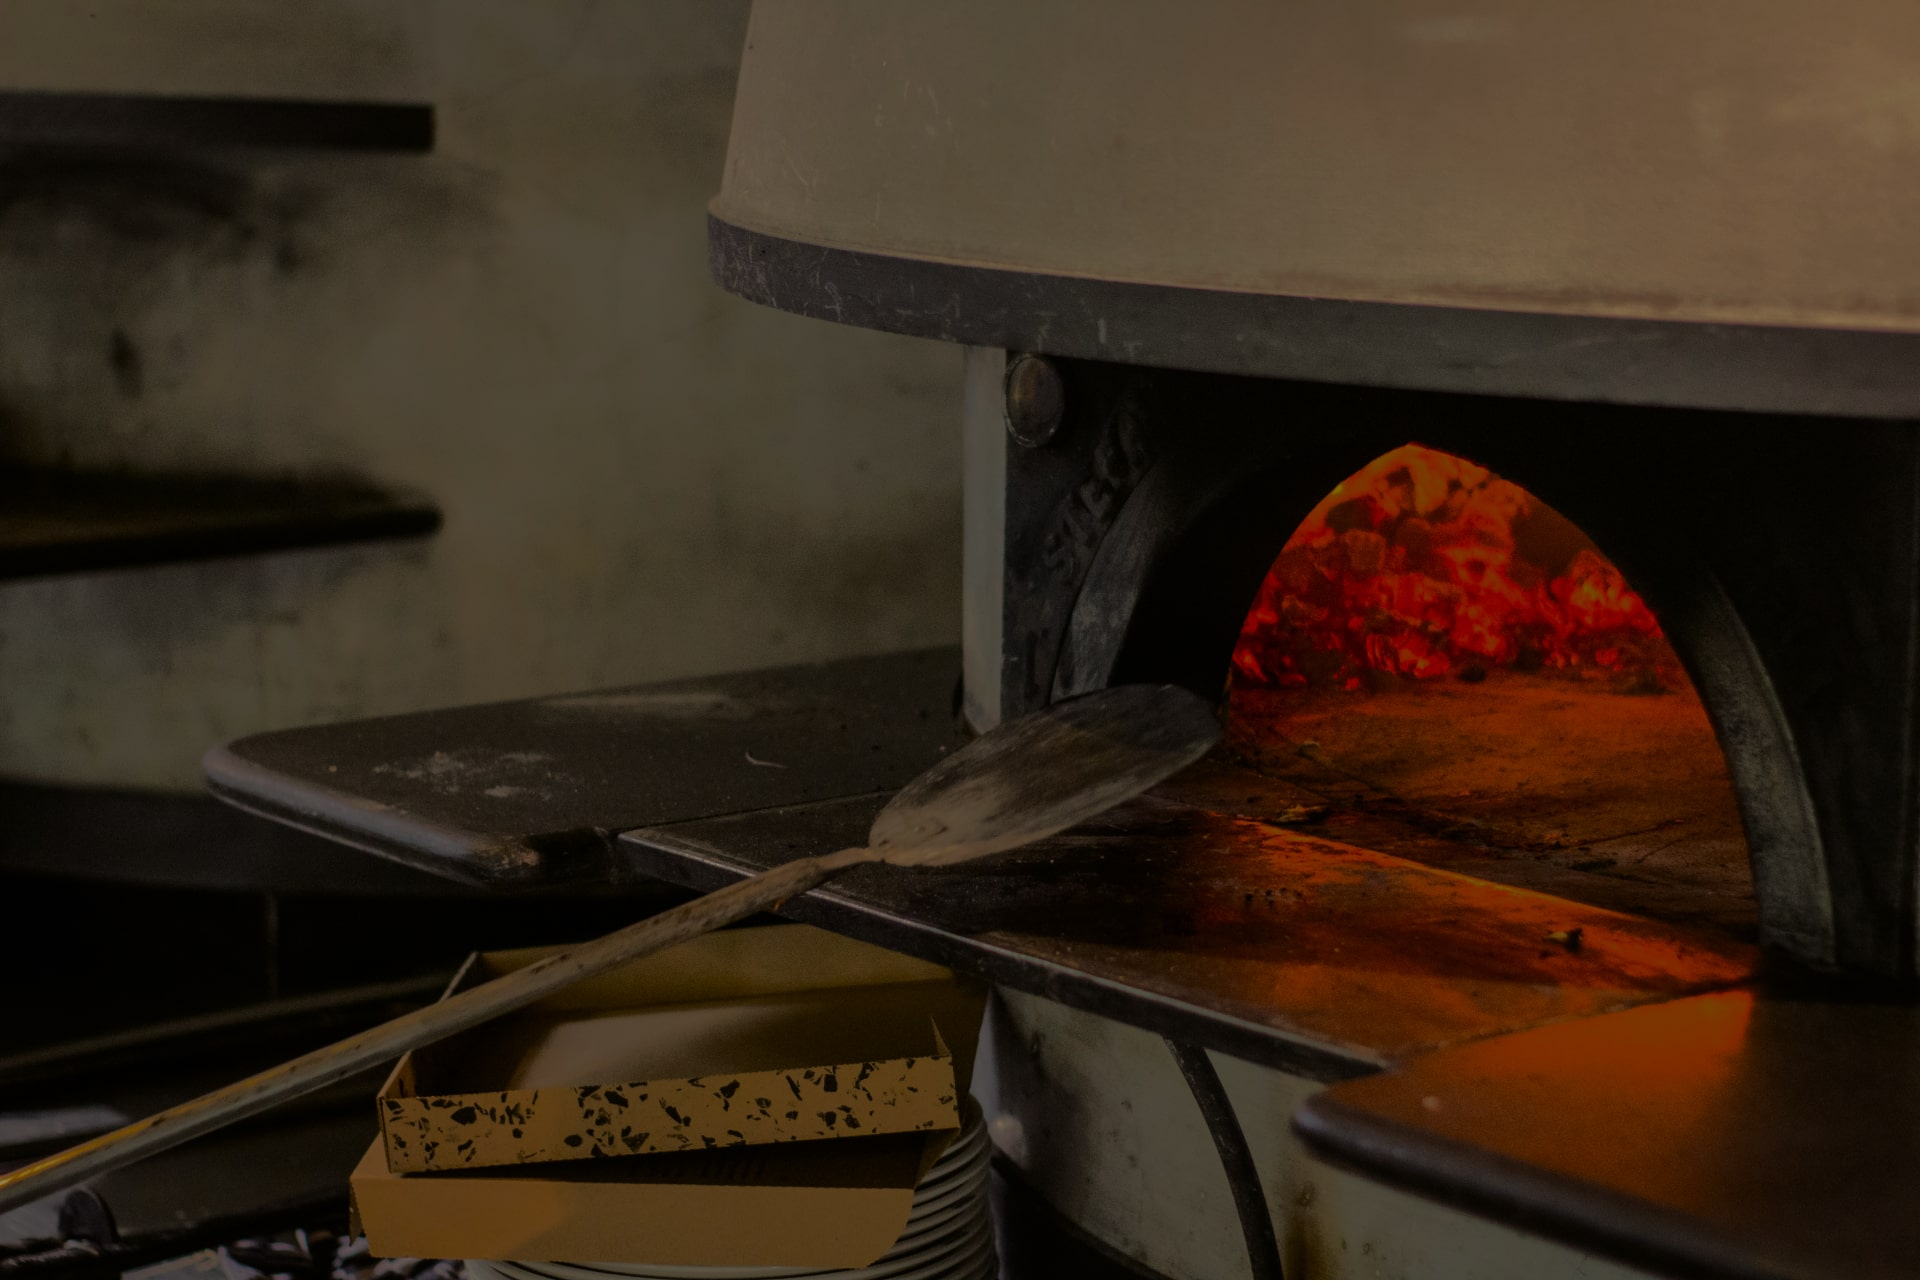
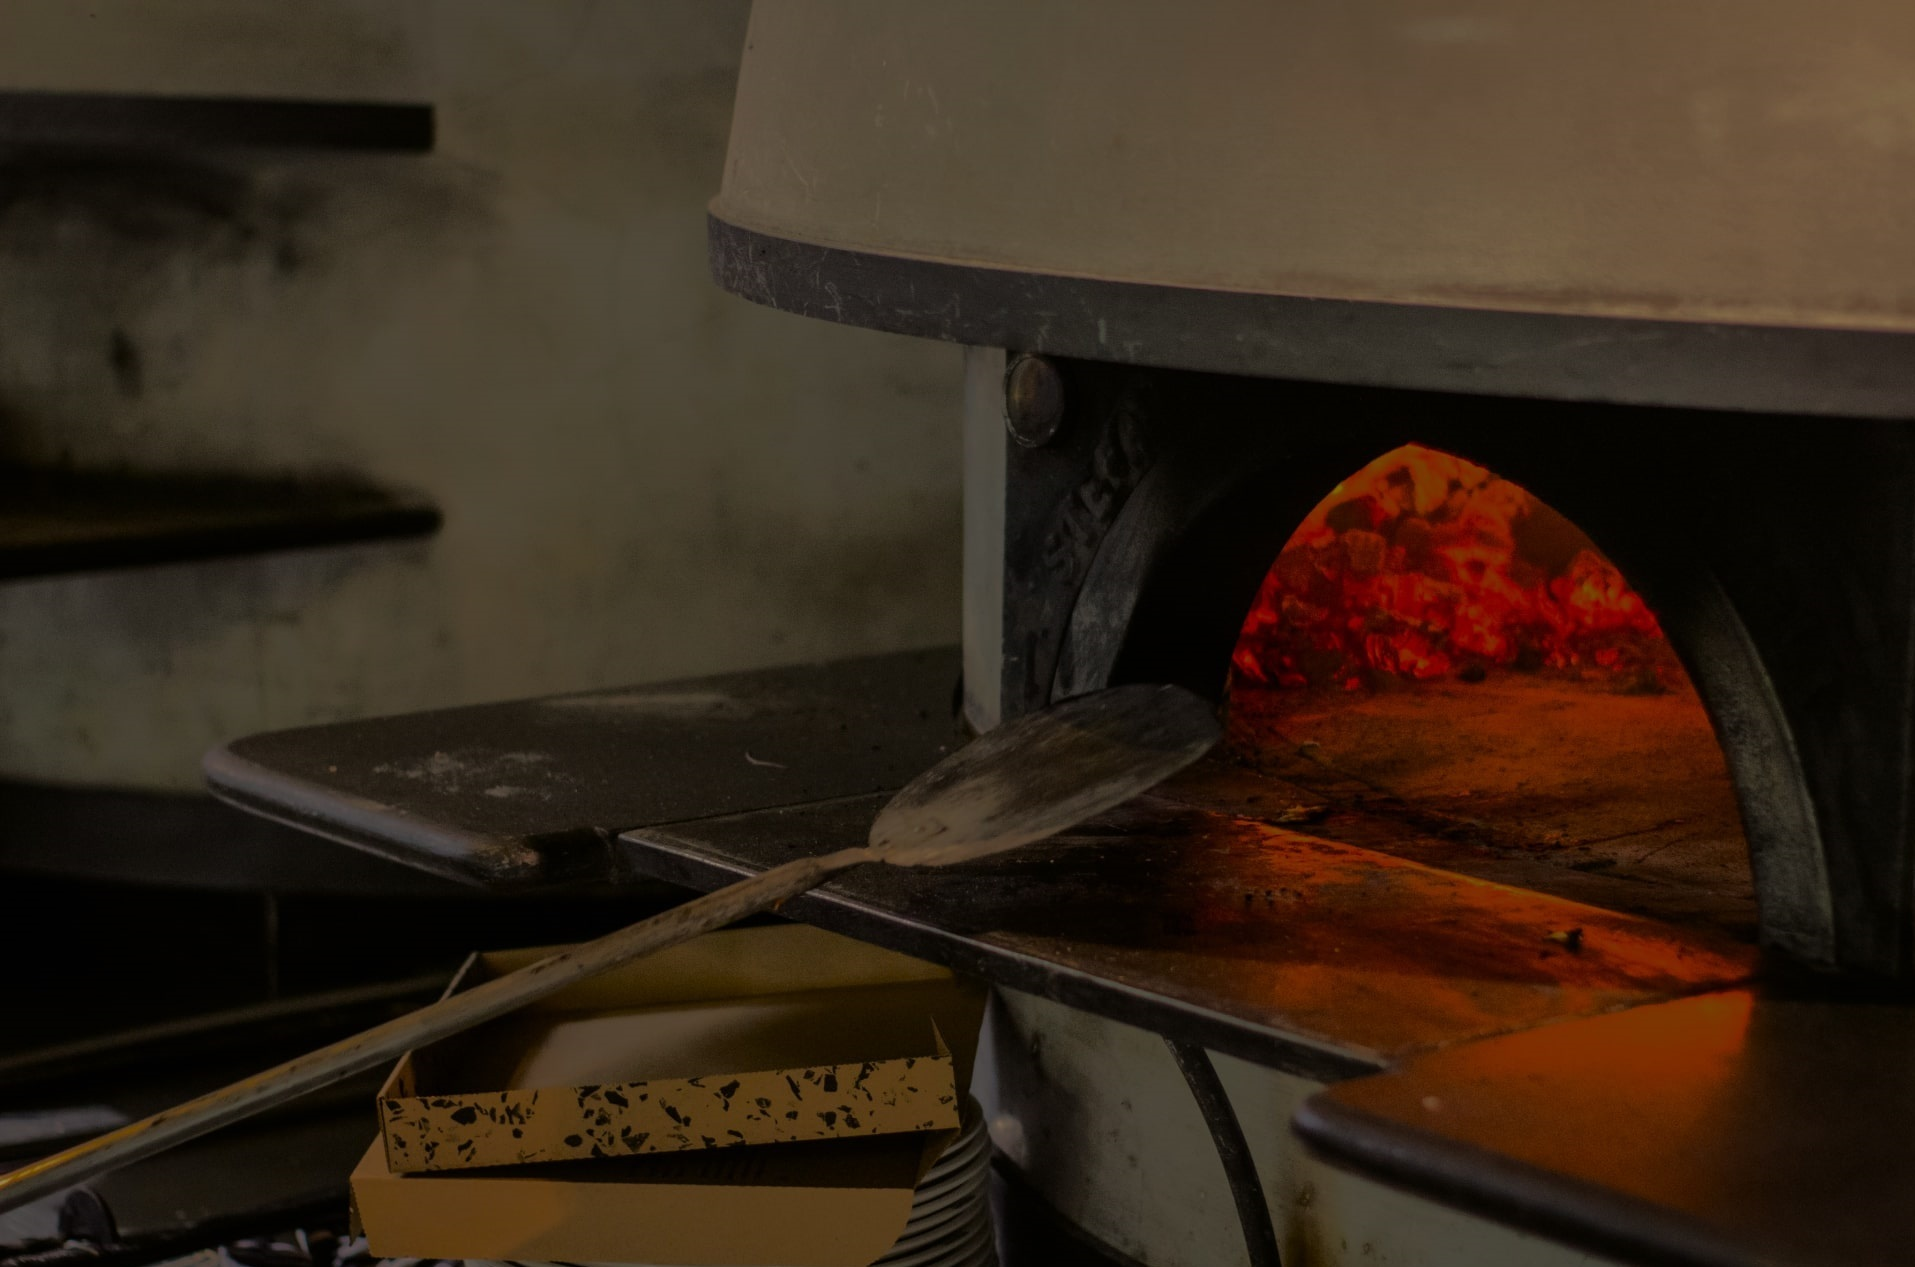
destop menu bar added

diff --git a/src/components/sections/Hero/Hero.js b/src/components/sections/Hero/Hero.js
@@ -1,15 +1,15 @@
 import React from 'react';
 import Div100vh from 'react-div-100vh';
-import heroImg from '../../../assets/images/hero-min.jpg';
+import heroImg from '../../../assets/images/hero-min.webp';
 import heroImgWebp from '../../../assets/images/hero-min.webp';
 import styles from './Hero.module.scss';
 
 const Hero = () => (
-  <Div100vh>
+  <Div100vh className={styles.fullHeight}>
     <div className={styles.imgContainer}>
       <picture>
         <source srcset={heroImgWebp} />
-        <img src={heroImg} alt="Hero image" className={styles.heroImg} />
+        <img src={heroImg} alt="Hero" className={styles.heroImg} />
       </picture>
       <div className={styles.textContainer}>
         <h1 className={styles.title}>Pizzeria Portafortuna</h1>

diff --git a/src/components/sections/Hero/Hero.module.scss b/src/components/sections/Hero/Hero.module.scss
@@ -8,10 +8,14 @@
   }
 }
 
+.fullHeight {
+  position: absolute;
+  top: 0;
+}
+
 .imgContainer {
   height: 100%;
   width: 100%;
-  position: relative;
 }
 
 .heroImg {
@@ -24,13 +28,12 @@
 .textContainer {
   width: 100%;
   position: absolute;
-  top: 10%;
+  top: 20%;
   display: flex;
   flex-direction: column;
   align-items: center;
   text-align: center;
   color: white;
-  animation: appear 2s;
 }
 
 .title {
@@ -41,7 +44,8 @@
 .phrase {
   margin-top: calc(40px + 3vw);
   font-size: clamp(1.7rem, calc(1.3433rem + 1.6306vw), 3.3rem);
-  line-height: 1.8;
+  line-height: 1.6;
   max-width: 800px;
   padding: 0 10px;
+  animation: appear 2s;
 }

diff --git a/src/components/sections/Menu/Menu.js b/src/components/sections/Menu/Menu.js
@@ -1,0 +1,25 @@
+import React from 'react';
+import styles from './Menu.module.scss';
+import PropTypes from 'prop-types';
+
+const Menu = ({ links, href }) =>
+  true ? (
+    <div className={styles.menuContainer}>
+      <ul className={styles.linkList}>
+        {links.map((link) => (
+          <li className={styles.link}>
+            <a href={href}>{link}</a>
+          </li>
+        ))}
+      </ul>
+    </div>
+  ) : (
+    <></>
+  );
+
+Menu.defaultProps = {
+  links: [],
+  href: '/#',
+};
+
+export default Menu;

diff --git a/src/App.js b/src/App.js
@@ -1,11 +1,21 @@
 import React from 'react';
 import Hero from './components/sections/Hero/Hero';
+import Menu from './components/sections/Menu/Menu';
 import './index.css';
 
 class App extends React.Component {
+  links = [
+    'Nasza Pasja',
+    'Wyjątkowe składniki',
+    'Menu',
+    'Nasze lokale',
+    'Kontakt',
+  ];
+
   render() {
     return (
       <>
+        <Menu links={this.links} s />
         <Hero />
       </>
     );

diff --git a/src/index.css b/src/index.css
@@ -10,9 +10,13 @@ h1,
 h2,
 h3,
 h4,
-h5 {
+h5,
+ul {
   margin: 0;
+  margin-block-start: 0;
+  margin-block-end: 0;
   padding: 0;
+  padding-inline-start: 0;
   font-weight: 500;
 }
 
@@ -24,6 +28,17 @@ body {
   font-family: 'Poppins', sans-serif;
 }
 
-li {
+ul {
   list-style: none;
+}
+
+a {
+  text-decoration: none;
+  color: unset;
+}
+
+.placeholder {
+  width: 100%;
+  height: 1000px;
+  background-color: lightgray;
 }

diff --git a/src/components/sections/Menu/Menu.module.scss b/src/components/sections/Menu/Menu.module.scss
@@ -1,0 +1,15 @@
+.menuContainer {
+  width: 100%;
+  z-index: 999;
+  position: sticky;
+  top: 0;
+}
+
+.linkList {
+  padding: 15px 0;
+  display: flex;
+  justify-content: space-evenly;
+  font-size: 1.5rem;
+  color: white;
+  background: rgba(0, 0, 0, 0.8);
+}

diff --git a/README.md b/README.md
@@ -1,7 +1,10 @@
 # Next TO DO
 
-Menu bar: 👷♂
+## Menu bar:
 
-Finish hero image:
+☑ Sticky menu for destkop
+👉 Hamburger menu for mobile
 
-☑ Done - so far
+## Hero Image:
+
+☑ Finish image optimalization
